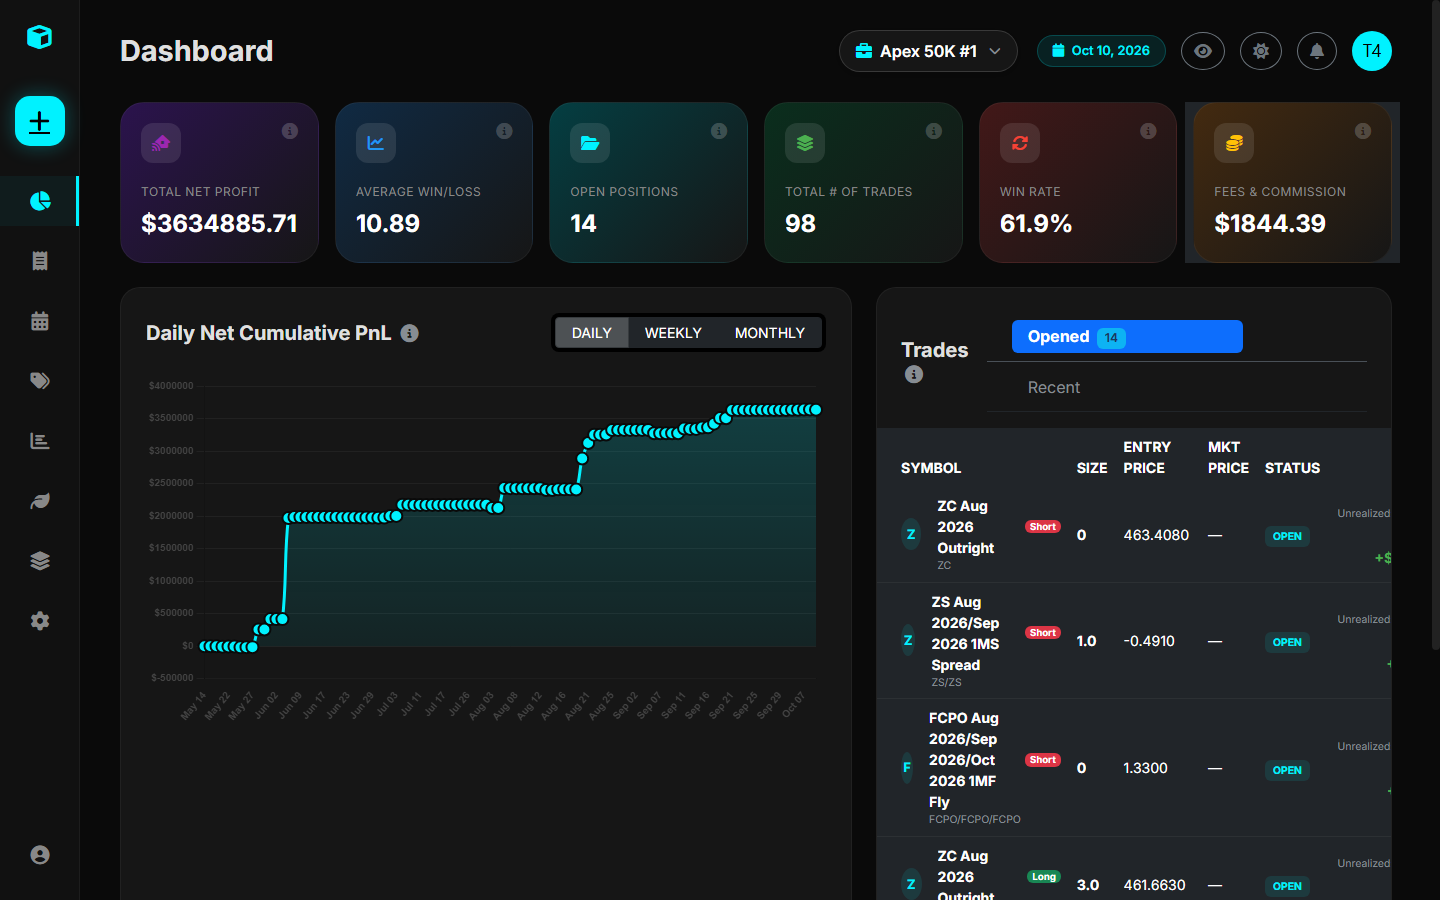
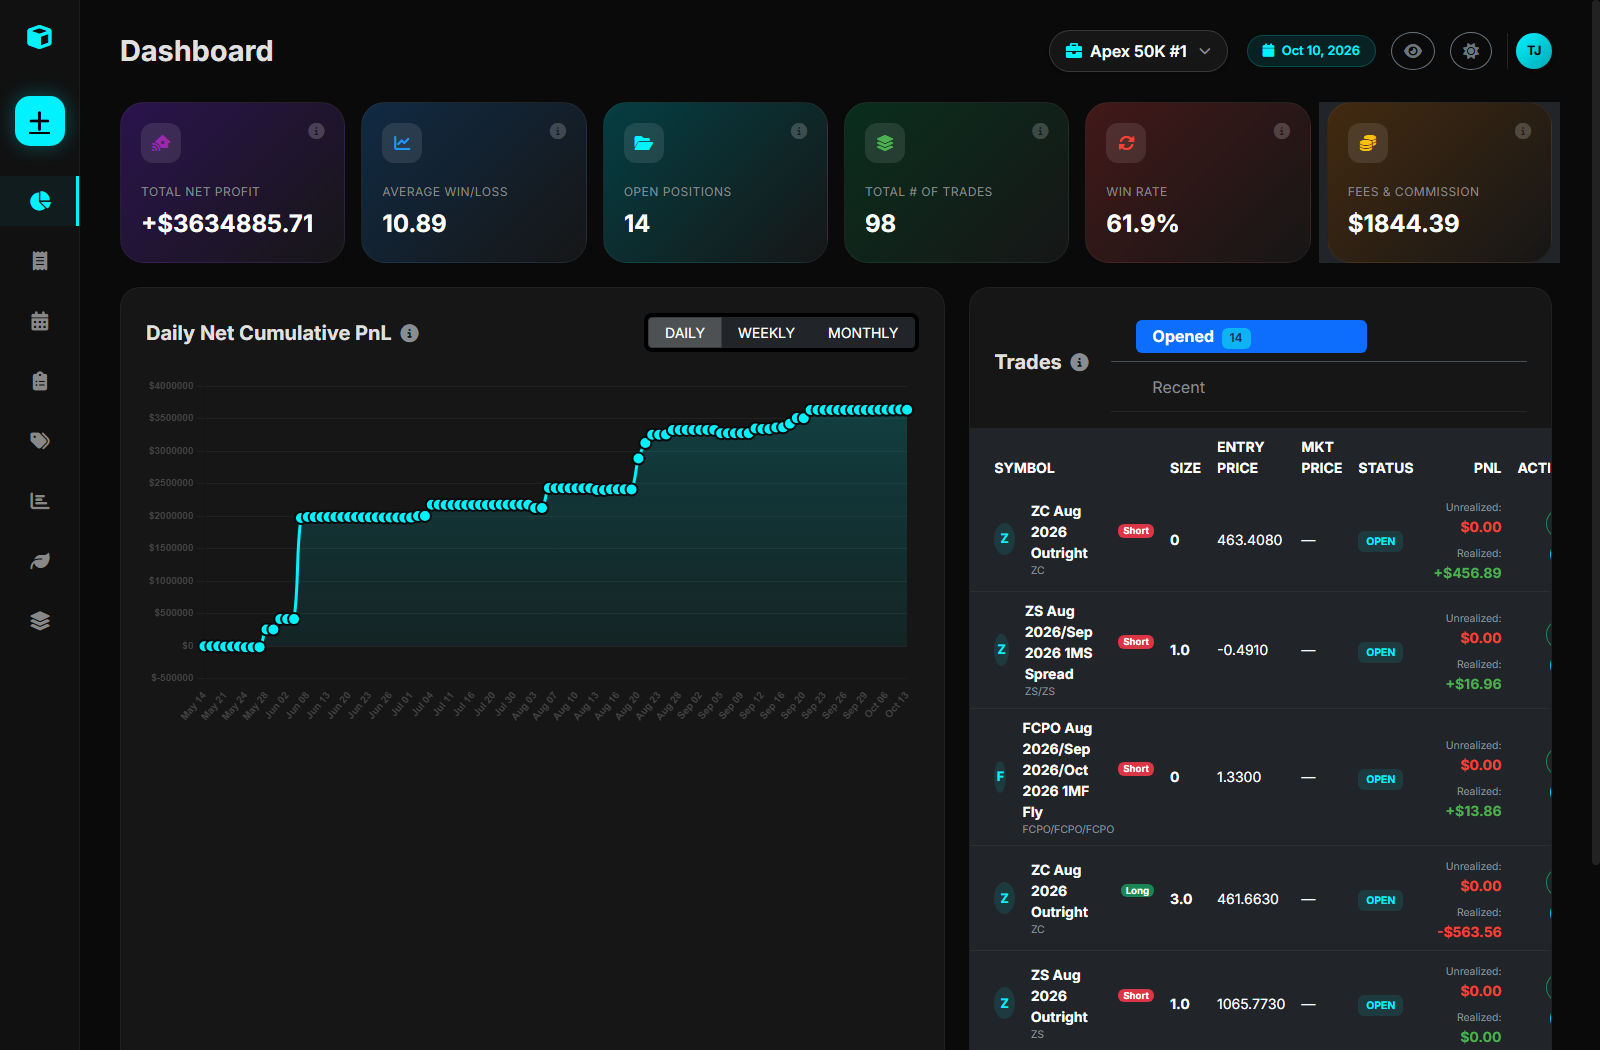
docs: update README with seeded dashboard screenshot, remove roadmap and license sections

diff --git a/README.md b/README.md
@@ -157,18 +157,3 @@ Navigate to [http://127.0.0.1:8000/](http://127.0.0.1:8000/) (or the port specif
 - **[How to Add More Products](docs/guides/adding-products.md)**
 - **[How to Add Strategies & Pairs](docs/guides/adding-strategies.md)**
 - **[Multiplier & PnL Formulas](docs/reference/formulas.md)**
-
----
-
-## 🗺 Roadmap
-
-- [x] Comprehensive documentation with MkDocs & Material theme
-- [ ] Integration with live WebSocket/REST market data feeds
-- [ ] Exportable tax and performance reports (PDF/Excel)
-- [ ] Advanced curve seasonality overlays
-
----
-
-## 📄 License
-
-This project is licensed under the MIT License — see the [LICENSE](LICENSE) file for details.
